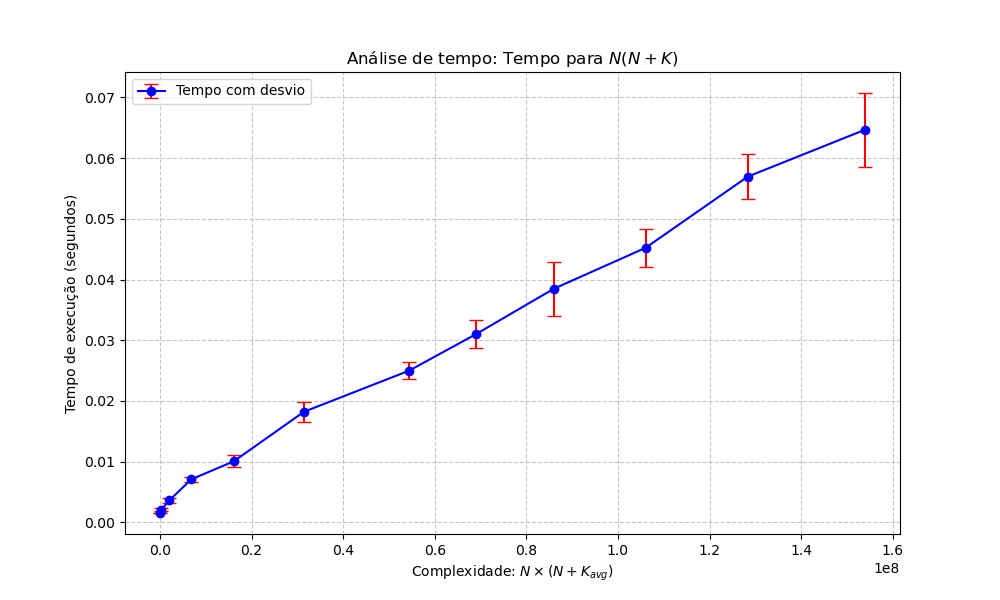
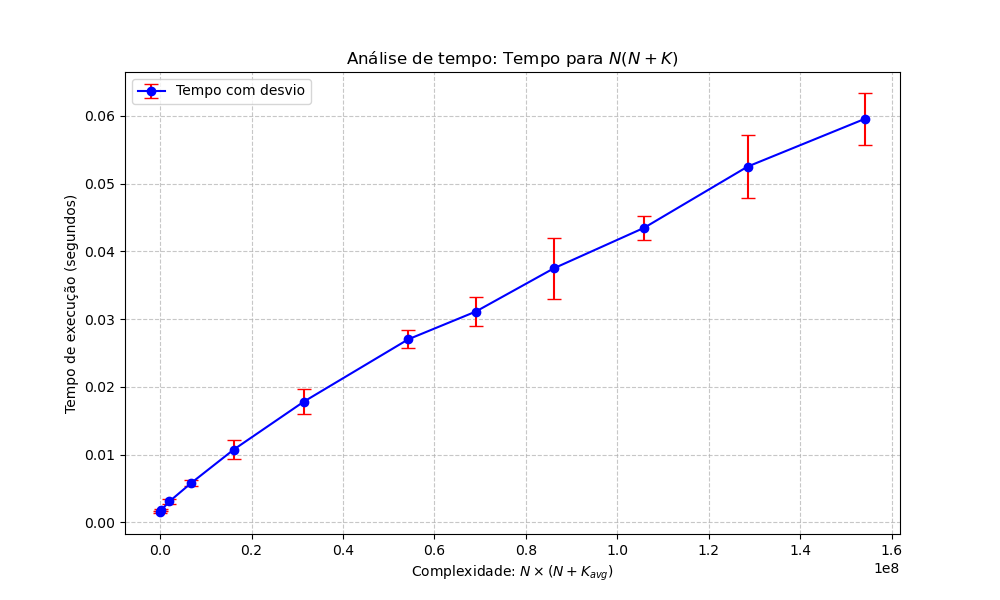
final

diff --git a/Entrega2/timer_tests.py b/Entrega2/timer_tests.py
@@ -38,7 +38,7 @@ TEST_CASES = [
     #(2000, 1000, 50),
 ]
 
-RUNS_PER_CASE = 3
+RUNS_PER_CASE = 10
 COMPILER = "g++"
 FLAGS = ["-O3", "-std=c++11"]
 # -----------------------------------------------------------------------------
